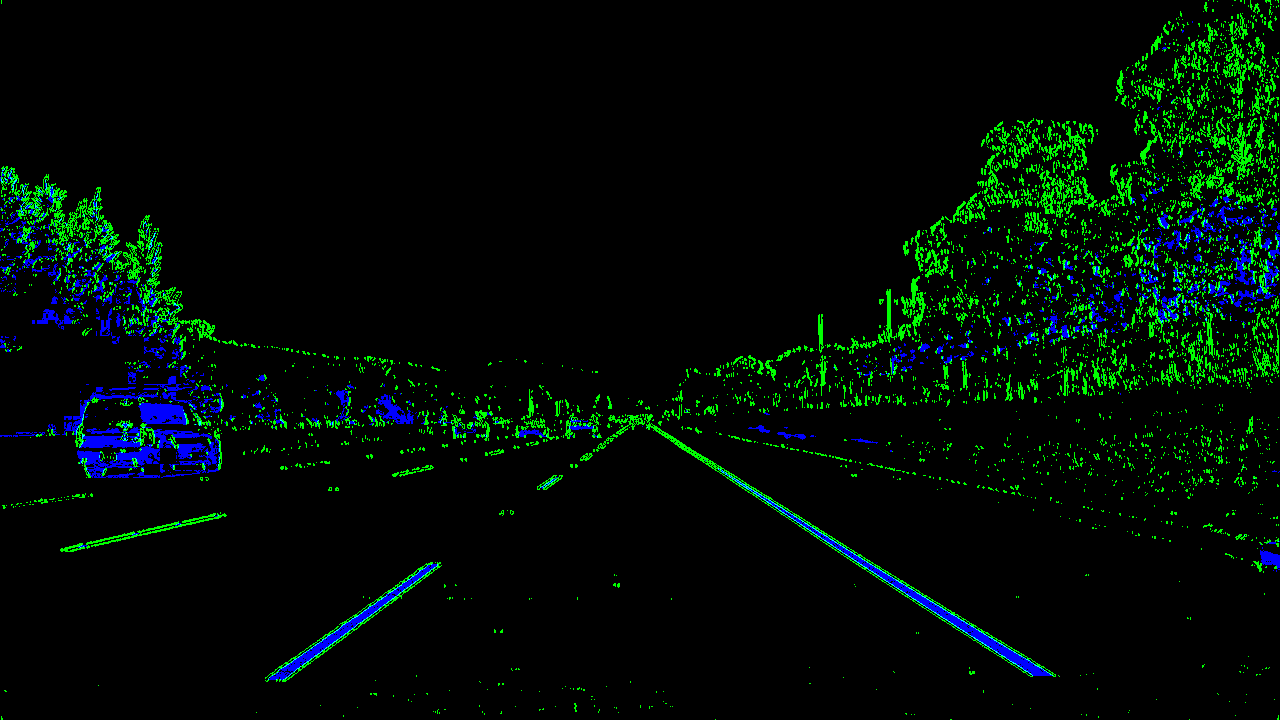
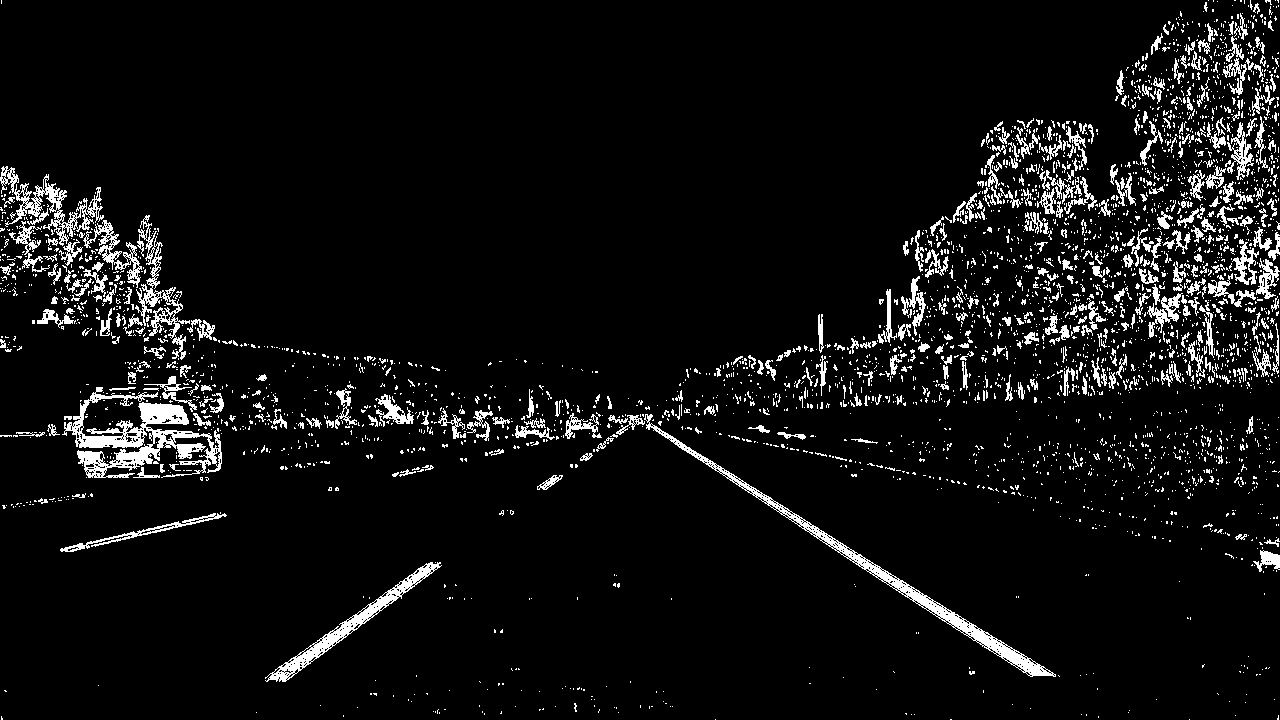
Added initial writeup.

diff --git a/writeup_report.md b/writeup_report.md
@@ -13,13 +13,15 @@ The goals / steps of this project are the following:
 
 [//]: # (Image References)
 
-[image1]: ./examples/undistort_output.png "Undistorted"
-[image2]: ./test_images/test1.jpg "Road Transformed"
-[image3]: ./examples/binary_combo_example.jpg "Binary Example"
-[image4]: ./examples/warped_straight_lines.jpg "Warp Example"
-[image5]: ./examples/color_fit_lines.jpg "Fit Visual"
-[image6]: ./examples/example_output.jpg "Output"
-[video1]: ./project_video.mp4 "Video"
+[image1]: ./output_images/chessboard_output.png "Chess Corners"
+[image2]: ./output_images/undistort_output.png "Undistorted"
+[image3a]: ./output_images/test1.jpg "Road Transformed"
+[image3b]: ./output_images/straight_lines2.jpg "Road Transformed"
+[image4]: ./output_images/binary_output.png "Binary Output"
+[image5]: ./output_images/warped_output.png "Warp Example"
+[image6]: ./output_images/color_fit_lines.jpg "Fit Visual"
+[image7]: ./output_images/example_output.jpg "Output"
+[video1]: ./output_videos/project_video.mp4
 
 ## [Rubric](https://review.udacity.com/#!/rubrics/571/view) Points
 ### Here I will consider the rubric points individually and describe how I addressed each point in my implementation.  
@@ -34,23 +36,30 @@ You're reading it!
 
 #### 1. Briefly state how you computed the camera matrix and distortion coefficients. Provide an example of a distortion corrected calibration image.
 
-The code for this step is contained in the first code cell of the IPython notebook located in "./examples/example.ipynb" (or in lines # through # of the file called `some_file.py`).  
+The code for this step is contained in the first code cell of the IPython notebook.
 
 I start by preparing "object points", which will be the (x, y, z) coordinates of the chessboard corners in the world. Here I am assuming the chessboard is fixed on the (x, y) plane at z=0, such that the object points are the same for each calibration image.  Thus, `objp` is just a replicated array of coordinates, and `objpoints` will be appended with a copy of it every time I successfully detect all chessboard corners in a test image.  `imgpoints` will be appended with the (x, y) pixel position of each of the corners in the image plane with each successful chessboard detection.  
 
-I then used the output `objpoints` and `imgpoints` to compute the camera calibration and distortion coefficients using the `cv2.calibrateCamera()` function.  I applied this distortion correction to the test image using the `cv2.undistort()` function and obtained this result: 
+Here are chessboard images with corners indentified and drawn.
 
 ![alt text][image1]
+
+I then used the output `objpoints` and `imgpoints` to compute the camera calibration and distortion coefficients using the `cv2.calibrateCamera()` function.  I applied this distortion correction to the test image using the `cv2.undistort()` function and obtained this result: 
+
+![alt text][image2]
 
 ### Pipeline (single images)
 
 #### 1. Provide an example of a distortion-corrected image.
 To demonstrate this step, I will describe how I apply the distortion correction to one of the test images like this one:
-![alt text][image2]
-#### 2. Describe how (and identify where in your code) you used color transforms, gradients or other methods to create a thresholded binary image.  Provide an example of a binary image result.
-I used a combination of color and gradient thresholds to generate a binary image (thresholding steps at lines # through # in `another_file.py`).  Here's an example of my output for this step.  (note: this is not actually from one of the test images)
+![alt text][image3a]
+![alt text][image3b]
 
-![alt text][image3]
+
+#### 2. Describe how (and identify where in your code) you used color transforms, gradients or other methods to create a thresholded binary image.  Provide an example of a binary image result.
+I used a combination of color and gradient thresholds to generate a binary image (thresholding steps at lines # through # in `another_file.py`).  Here's an example of my output for this step.
+
+![alt text][image4]
 
 #### 3. Describe how (and identify where in your code) you performed a perspective transform and provide an example of a transformed image.
 
@@ -80,13 +89,13 @@ This resulted in the following source and destination points:
 
 I verified that my perspective transform was working as expected by drawing the `src` and `dst` points onto a test image and its warped counterpart to verify that the lines appear parallel in the warped image.
 
-![alt text][image4]
+![alt text][image5]
 
 #### 4. Describe how (and identify where in your code) you identified lane-line pixels and fit their positions with a polynomial?
 
 Then I did some other stuff and fit my lane lines with a 2nd order polynomial kinda like this:
 
-![alt text][image5]
+![alt text][image6]
 
 #### 5. Describe how (and identify where in your code) you calculated the radius of curvature of the lane and the position of the vehicle with respect to center.
 
@@ -96,7 +105,7 @@ I did this in lines # through # in my code in `my_other_file.py`
 
 I implemented this step in lines # through # in my code in `yet_another_file.py` in the function `map_lane()`.  Here is an example of my result on a test image:
 
-![alt text][image6]
+![alt text][image7]
 
 ---
 
